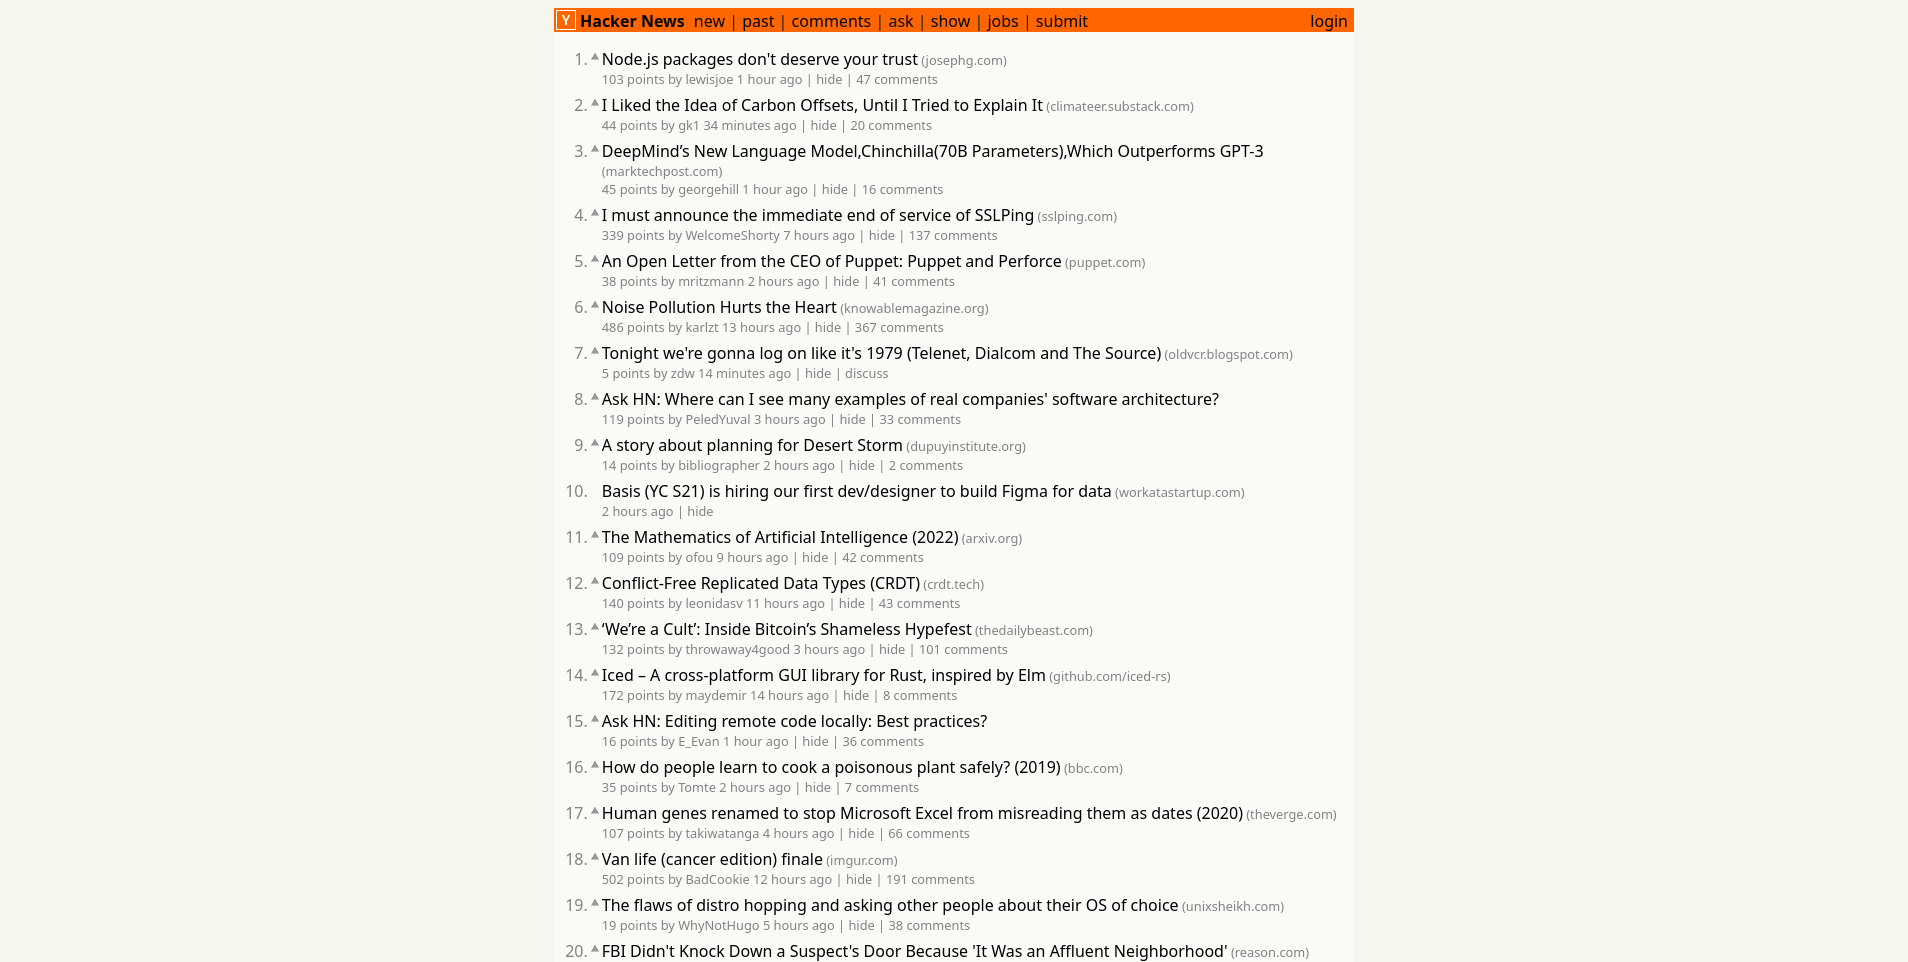
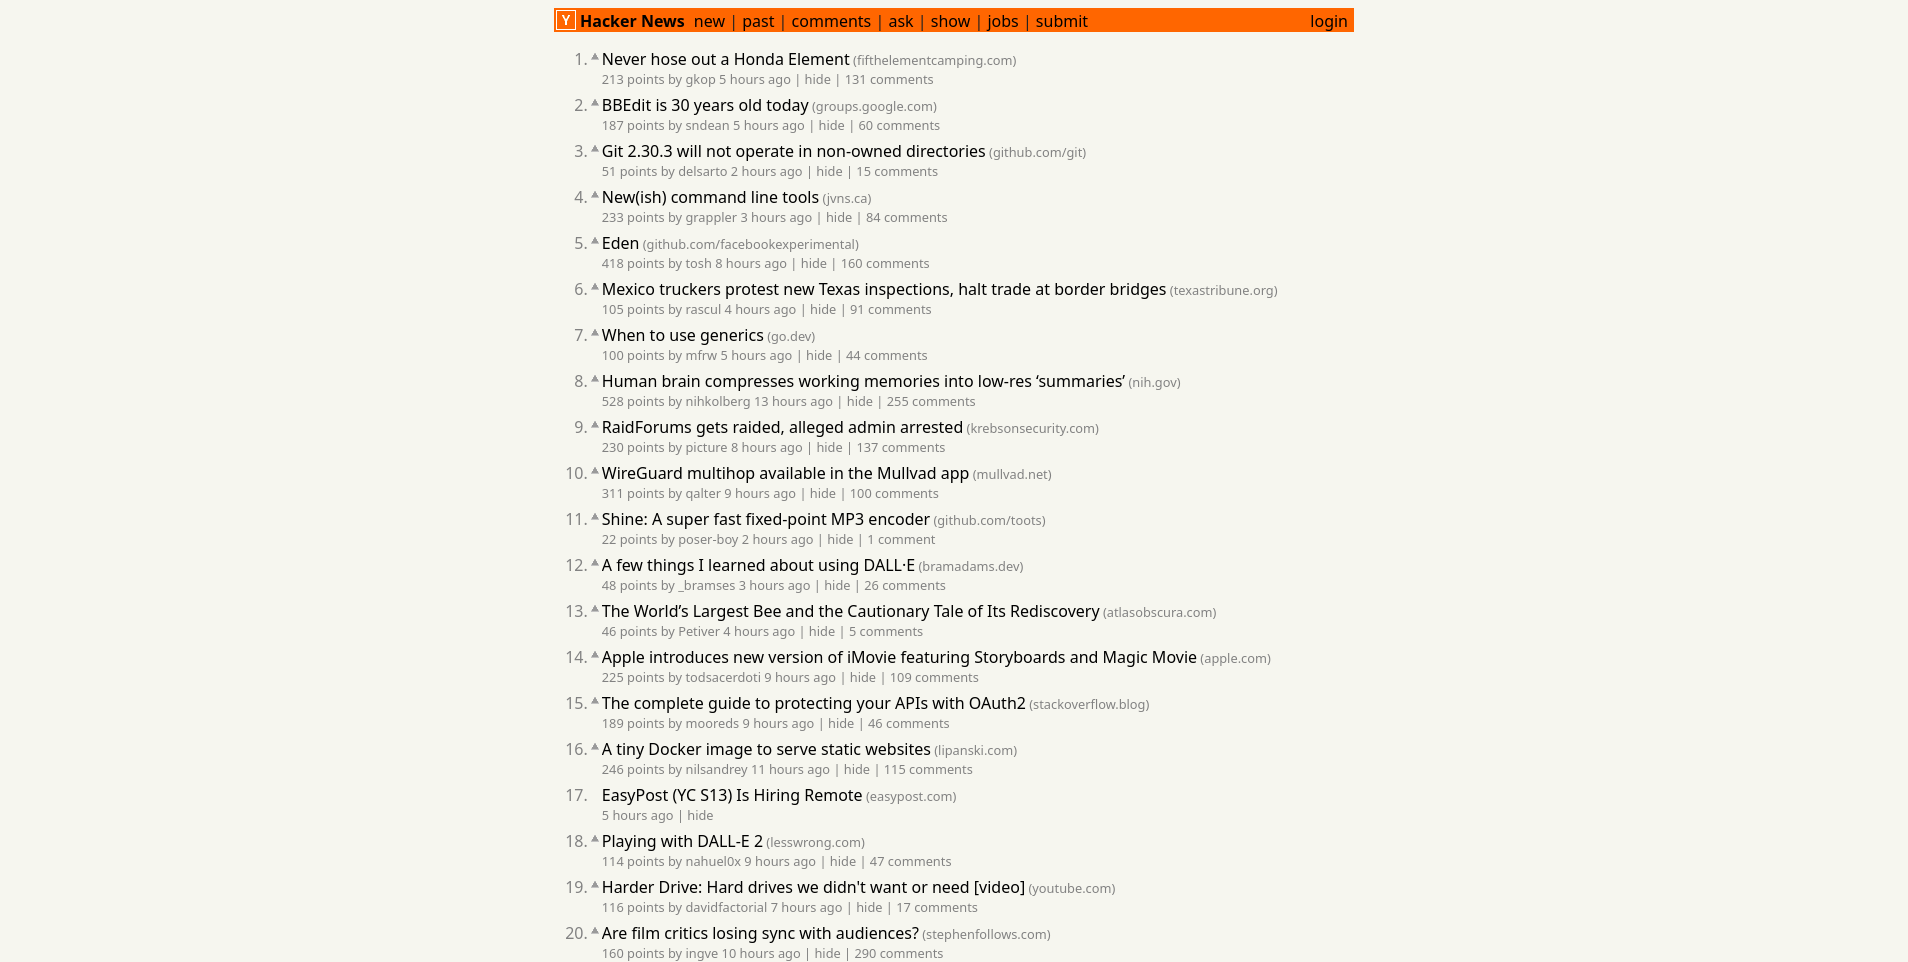
Adjusted style

Changed region(s): [[0.3092, 0.0312, 0.6803, 0.9979]]

diff --git a/hacker-news-styling.js b/hacker-news-styling.js
@@ -3,7 +3,7 @@
 // @namespace   Violentmonkey Scripts
 // @match       https://news.ycombinator.com/*
 // @grant       none
-// @version     1.0
+// @version     1.1
 // @author      Sadir
 // @description 4/11/2022, 9:30:31 AM
 // ==/UserScript==
@@ -15,8 +15,9 @@
   document.body.appendChild(style);
   style.sheet.insertRule("body, .title, .comment, .pagetop, .default, td { font-size: 1rem; }");
   style.sheet.insertRule(".subtext, .comhead, .yclinks { font-size: .8rem; }");
-  style.sheet.insertRule("#hnmain { background-color: rgba(255,255,255,.5); max-width: 50em; min-width: none; }");
-  style.sheet.insertRule("body { background-color: #f6f6ef; }");
+  style.sheet.insertRule("#hnmain { background-color: none; max-width: 50em; min-width: none; }");
+  style.sheet.insertRule("body { background-color: rgb(246, 246, 239); }");
   style.sheet.insertRule(".itemlist { padding: .3em .7em; }");
+  style.sheet.insertRule(".fatitem { background-color: #fff;  box-shadow: 0 1px 3px rgba(0, 0, 0, .2); width: 100%; }");
   
 })();
